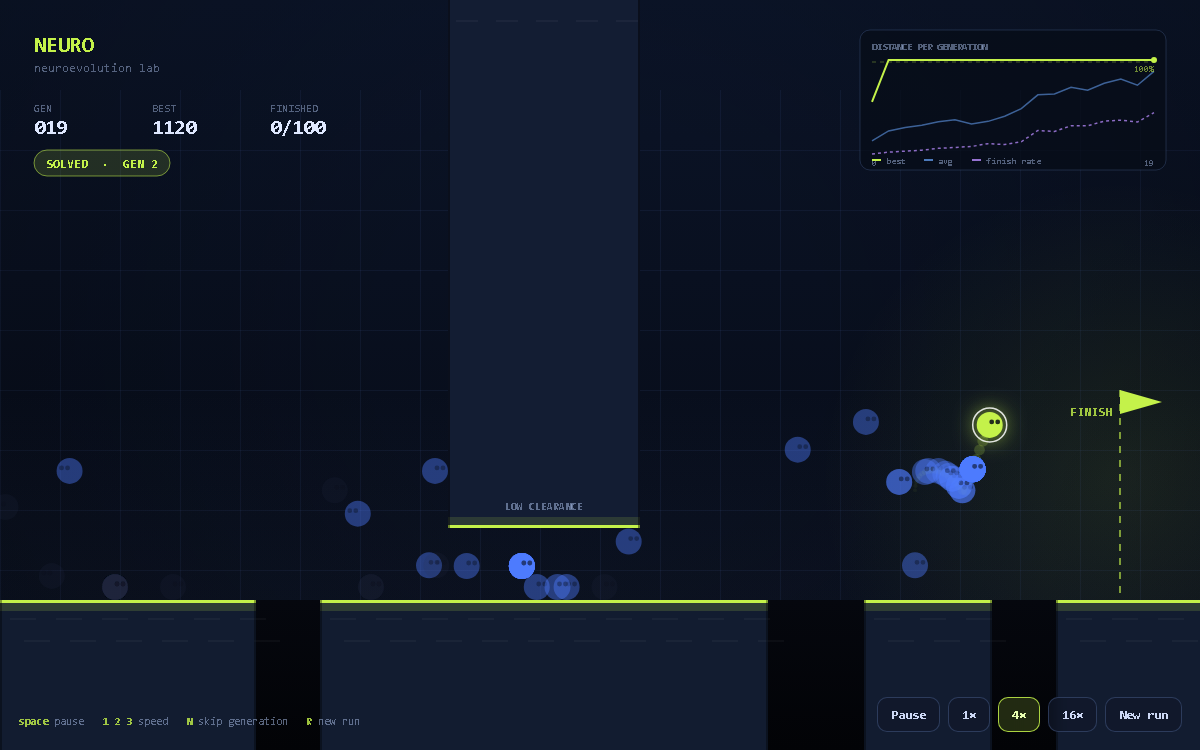
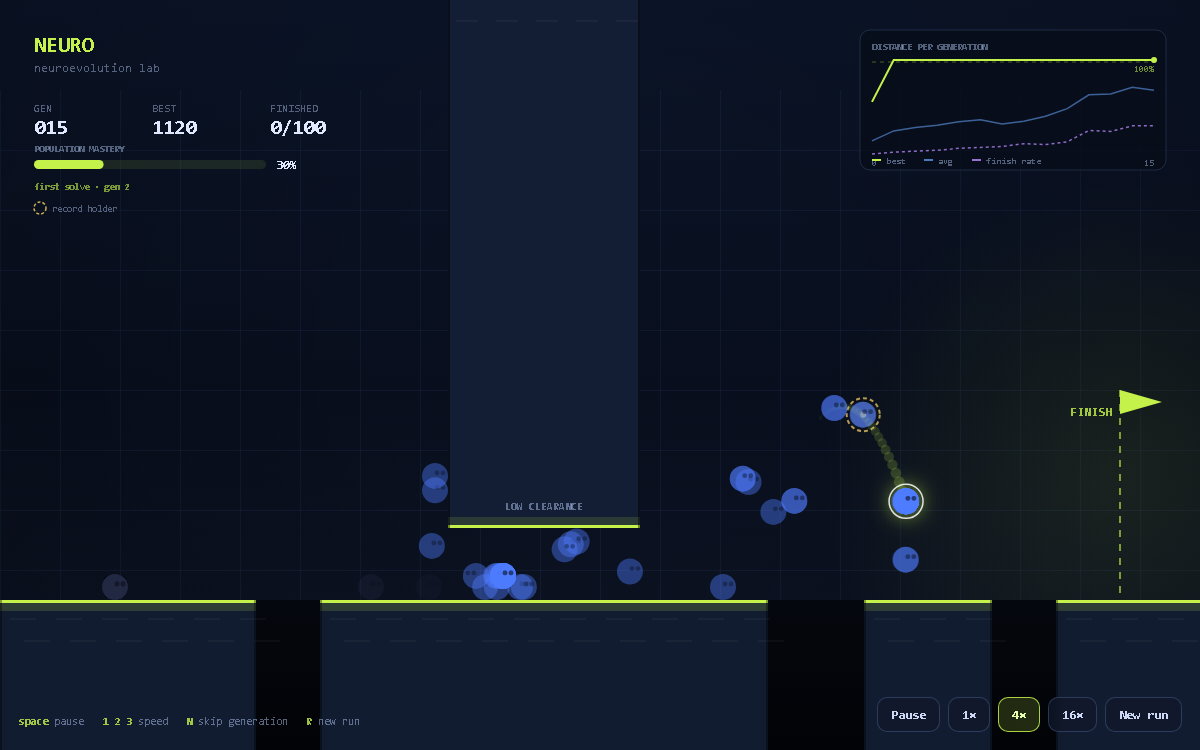
Make the learning legible: record ghost, frontier line, mastery bar
The fast first solve was stealing the story. One lucky agent finishing at
generation 2 looked like the end of the demo, when the actual result takes
forty generations: the population learning to do it reliably.

- the record holder now re-runs every generation as a gold ghost, so there
  is always a visible example of a good run
- a dashed frontier line marks the furthest anyone has ever got
- the SOLVED badge is replaced by a population-mastery bar, which is the
  number worth watching
- the harness asserts the ghost carries the champion genome and stays out
  of the population

diff --git a/index.html b/index.html
@@ -394,8 +394,10 @@ class Sim {
     this.generation = 1;
     this.history = [];
     this.bestEver = 0;
+    this.bestDist = 0;
     this.bestEverGenome = null;
     this.solvedGen = 0;
+    this.ghost = null;
     this.pop = [];
     for (let i = 0; i < POP; i++) this.pop.push(new Agent(randomGenome(this.rng), i));
     this.startGeneration();
@@ -403,6 +405,10 @@ class Sim {
 
   startGeneration() {
     for (const a of this.pop) a.reset();
+    // the record holder re-runs every generation as a ghost, so there is always
+    // a visible answer to "what does a good run look like right now?"
+    this.ghost = this.bestEverGenome ? new Agent(this.bestEverGenome.slice(), -1) : null;
+    if (this.ghost) this.ghost.isGhost = true;
     this.elapsed = 0;
     this.genDone = false;
     this.interT = 0;
@@ -428,18 +434,24 @@ class Sim {
       a.checkDone(this, dt);
       if (!a.done) active++;
     }
+    if (this.ghost && !this.ghost.done) {
+      this.ghost.step(dt, this.course);
+      this.ghost.checkDone(this, dt);
+    }
     if (active === 0 || this.elapsed >= TIME_LIMIT) this.endGeneration();
   }
 
   endGeneration() {
-    let best = 0, sum = 0, alive = 0, finished = 0;
+    let best = 0, sum = 0, alive = 0, finished = 0, maxDist = 0;
     for (const a of this.pop) {
       a.fitness = a.score(this.course);
       if (a.fitness > best) best = a.fitness;
+      if (a.best > maxDist) maxDist = a.best;
       sum += a.fitness;
       if (!a.done) alive++;
       if (a.finished) finished++;
     }
+    if (maxDist > this.bestDist) this.bestDist = maxDist;
     this.genBest = best;
     this.genAvg = sum / POP;
     this.alive = alive;
@@ -557,10 +569,26 @@ class Renderer {
 
     this.background(ctx);
     this.course(ctx, sim.course);
+    this.recordLine(ctx, sim);
     this.agents(ctx, sim);
     this.hud(ctx, sim);
     this.chart(ctx, sim);
     if (sim.genDone) this.intermission(ctx, sim);
+  }
+
+  recordLine(ctx, sim) {
+    const x = Math.max(sim.bestDist, sim.leader() ? sim.leader().best : 0);
+    if (x < 90) return;
+    ctx.save();
+    ctx.setLineDash([2, 7]);
+    ctx.strokeStyle = 'rgba(255, 214, 102, 0.38)';
+    ctx.lineWidth = 1;
+    ctx.beginPath();
+    ctx.moveTo(x, GROUND_Y - 168);
+    ctx.lineTo(x, GROUND_Y);
+    ctx.stroke();
+    ctx.restore();
+    text(ctx, 'RECORD ' + Math.round(x), x + 7, GROUND_Y - 172, 10, 'rgba(255,214,102,0.62)', 'left', 600);
   }
 
   background(ctx) {
@@ -682,6 +710,29 @@ class Renderer {
     const leader = sim.leader();
     const leaderId = leader ? leader.index : -1;
 
+    // the record holder, ghosted in gold
+    const g = sim.ghost;
+    if (g) {
+      const gx = g.x + AGENT_R, gy = g.y + AGENT_R;
+      ctx.save();
+      ctx.setLineDash([4, 3]);
+      ctx.strokeStyle = g.finished ? 'rgba(255, 214, 102, 0.95)' : 'rgba(255, 214, 102, 0.7)';
+      ctx.lineWidth = 2;
+      ctx.beginPath();
+      ctx.arc(gx, gy, AGENT_R + 3.5, 0, 6.2832);
+      ctx.stroke();
+      ctx.setLineDash([]);
+      ctx.fillStyle = 'rgba(255, 214, 102, 0.14)';
+      ctx.beginPath();
+      ctx.arc(gx, gy, AGENT_R, 0, 6.2832);
+      ctx.fill();
+      ctx.fillStyle = 'rgba(255, 214, 102, 0.9)';
+      ctx.beginPath();
+      ctx.arc(gx, gy, 3, 0, 6.2832);
+      ctx.fill();
+      ctx.restore();
+    }
+
     for (const a of sim.pop) {
       const isLeader = a.index === leaderId && !a.done;
       if (a.done && !a.finished) {
@@ -761,18 +812,36 @@ class Renderer {
       x += 118;
     }
 
-    if (solved) {
-      const label = 'SOLVED  ·  GEN ' + sim.solvedGen;
-      ctx.font = '700 12px ui-monospace, Menlo, monospace';
-      const w = ctx.measureText(label).width + 24;
-      ctx.fillStyle = 'rgba(196,242,74,0.14)';
-      rr(ctx, 34, 150, w, 26, 13);
+    // mastery is the real milestone: one lucky run is not the story, the
+    // population learning to do it reliably is.
+    const last = sim.history.length ? sim.history[sim.history.length - 1] : null;
+    const rate = last ? last.fin : 0;
+    const bw = 232, bx = 34, by = 160;
+    text(ctx, solved ? 'POPULATION MASTERY' : 'NOBODY HAS FINISHED YET', bx, by - 8, 10, COL.dim, 'left', 600);
+    ctx.fillStyle = 'rgba(196, 242, 74, 0.10)';
+    rr(ctx, bx, by, bw, 9, 4.5);
+    ctx.fill();
+    if (rate > 0) {
+      ctx.fillStyle = COL.accent;
+      rr(ctx, bx, by, Math.max(3, bw * rate), 9, 4.5);
       ctx.fill();
-      ctx.strokeStyle = 'rgba(196,242,74,0.55)';
-      ctx.lineWidth = 1;
-      ctx.stroke();
-      text(ctx, label, 46, 168, 12, COL.accent, 'left', 700);
     }
+    text(ctx, Math.round(rate * 100) + '%', bx + bw + 10, by + 9, 12, COL.text, 'left', 700);
+
+    if (solved) {
+      text(ctx, 'first solve · gen ' + sim.solvedGen, bx, by + 30, 10, 'rgba(196,242,74,0.6)', 'left', 600);
+    }
+
+    // legend for the gold ghost
+    ctx.save();
+    ctx.setLineDash([3, 2]);
+    ctx.strokeStyle = 'rgba(255, 214, 102, 0.8)';
+    ctx.lineWidth = 1.5;
+    ctx.beginPath();
+    ctx.arc(bx + 6, by + 48, 6, 0, 6.2832);
+    ctx.stroke();
+    ctx.restore();
+    text(ctx, 'record holder', bx + 18, by + 52, 10, COL.dim, 'left', 500);
   }
 
   chart(ctx, sim) {
@@ -949,6 +1018,12 @@ if (!window.__NEURO_HEADLESS__) {
 </script>
 </body>
 </html>
+
+
+
+
+
+
 
 
 

diff --git a/README.md b/README.md
@@ -31,6 +31,22 @@ height above the floor
 Those feed a 11 → 12 → 2 network (`tanh`), which outputs two continuous values:
 **how hard to run** and **whether to jump**. That's the whole creature.
 
+Four things on screen are worth knowing how to read:
+
+- **The gold dashed ring** is the record holder — the best genome so far — re-running
+  every generation as a ghost. It isn't in the population and can't be selected, so
+  there is always a visible answer to "what does a good run look like right now",
+  even in generation 3 while most of the field is still stuck at the first wall.
+- **Population mastery** is the number that matters. One creature clearing the course
+  is luck; the bar is the share of the population that finished the last generation,
+  and it climbing is the thing actually being demonstrated.
+- **The dashed gold line** in the world is the furthest anyone has ever got. It moves
+  right as the frontier moves, and it is the honest measure of progress when the
+  chart is still flat.
+- **The chart** tracks best distance, average distance, and finish rate. The average
+  line is the laggard — the one that shows the whole population improving rather than
+  one lucky mutant.
+
 Every generation is 10 seconds. When it ends, the 100 agents are ranked by how far
 they got (plus a bonus for finishing, and a bonus for finishing quickly). The top
 six survive untouched, the rest are bred from tournament-selected parents with
@@ -87,8 +103,10 @@ simulation with no renderer, and asserts the interesting things:
    generations.
 2. **Determinism** — the same seed reproduces the same run; different seeds
    diverge.
-3. **No NaN/Infinity** anywhere in agent state.
-4. **Throughput** — enough simulation steps per second to drive 16× rendering
+3. **The ghost stays a ghost** — it carries the record genome, and it is not in
+   the population, so it can never skew selection.
+4. **No NaN/Infinity** anywhere in agent state.
+5. **Throughput** — enough simulation steps per second to drive 16× rendering
    without dropping frames.
 
 ```sh
@@ -102,9 +120,9 @@ course was built around.
 
 ## Ideas
 
-Speciation with fitness sharing, novelty search, a second hidden layer, letting
-the course be procedurally generated per seed, saving and reloading champion
-genomes, or a "watch the champion" mode that replays the best run at 1×.
+Speciation with fitness sharing, novelty search, a second hidden layer, a
+procedurally generated course per seed, exporting and re-importing champion
+genomes, or a slow-motion replay of the best run at the end of every generation.
 
 ## License
 
